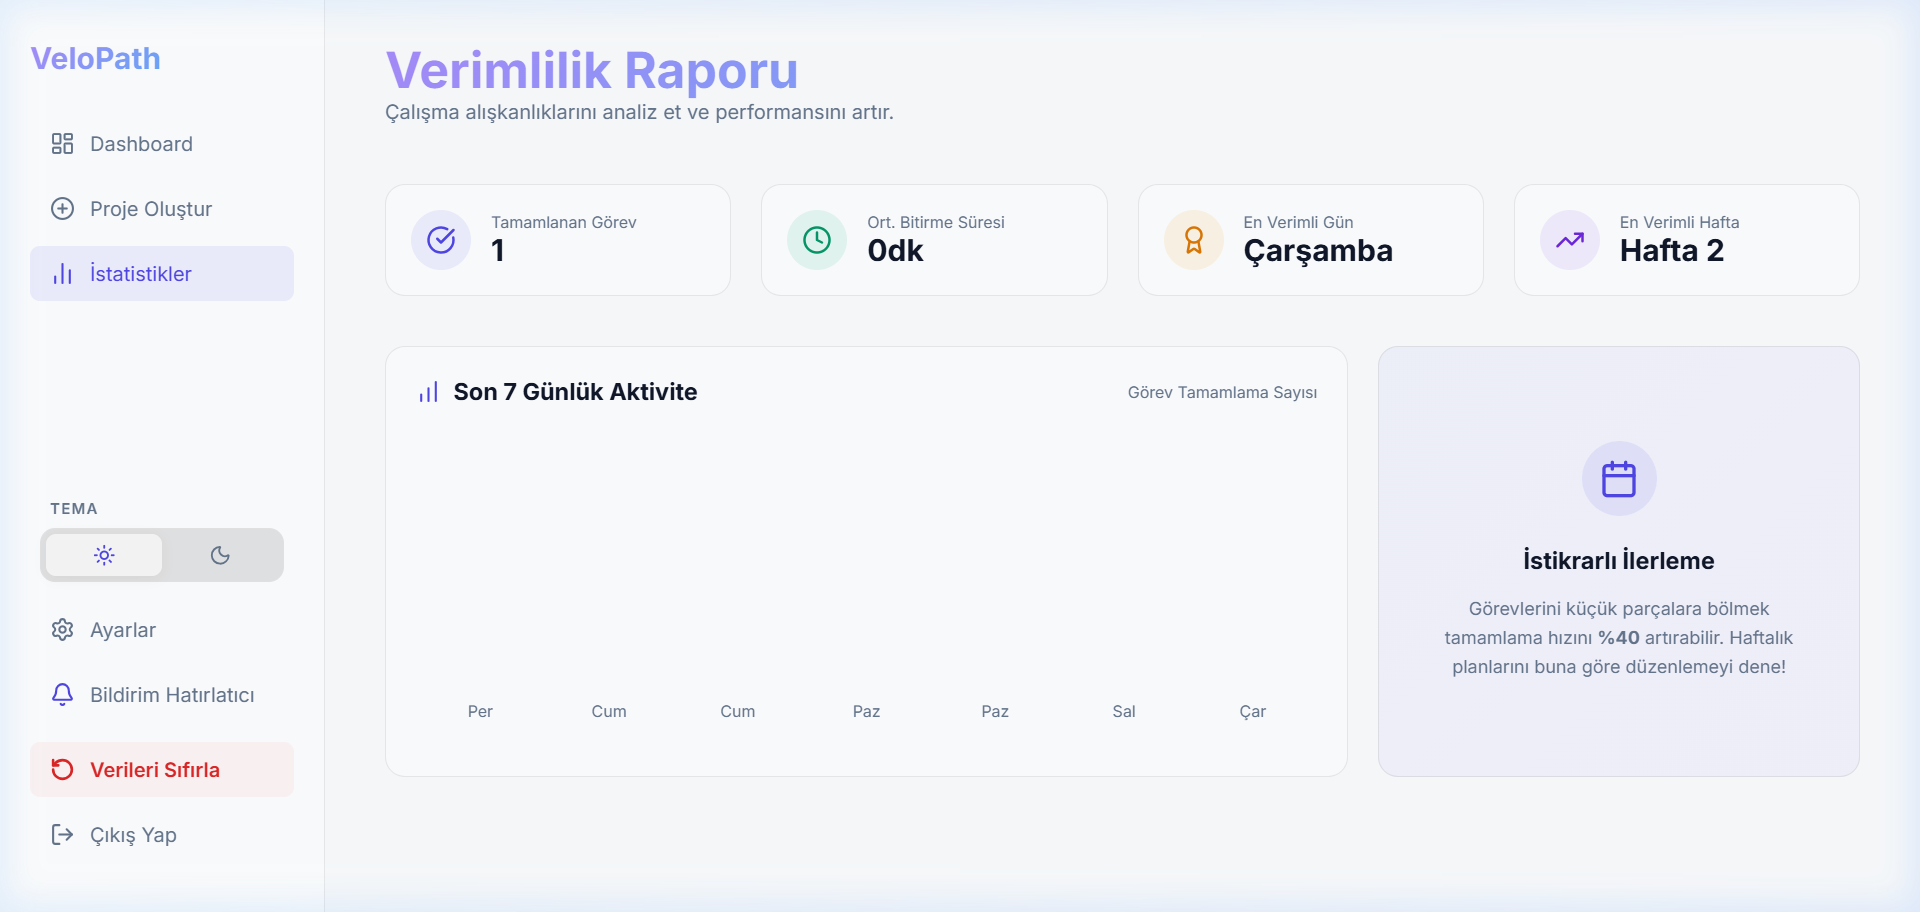
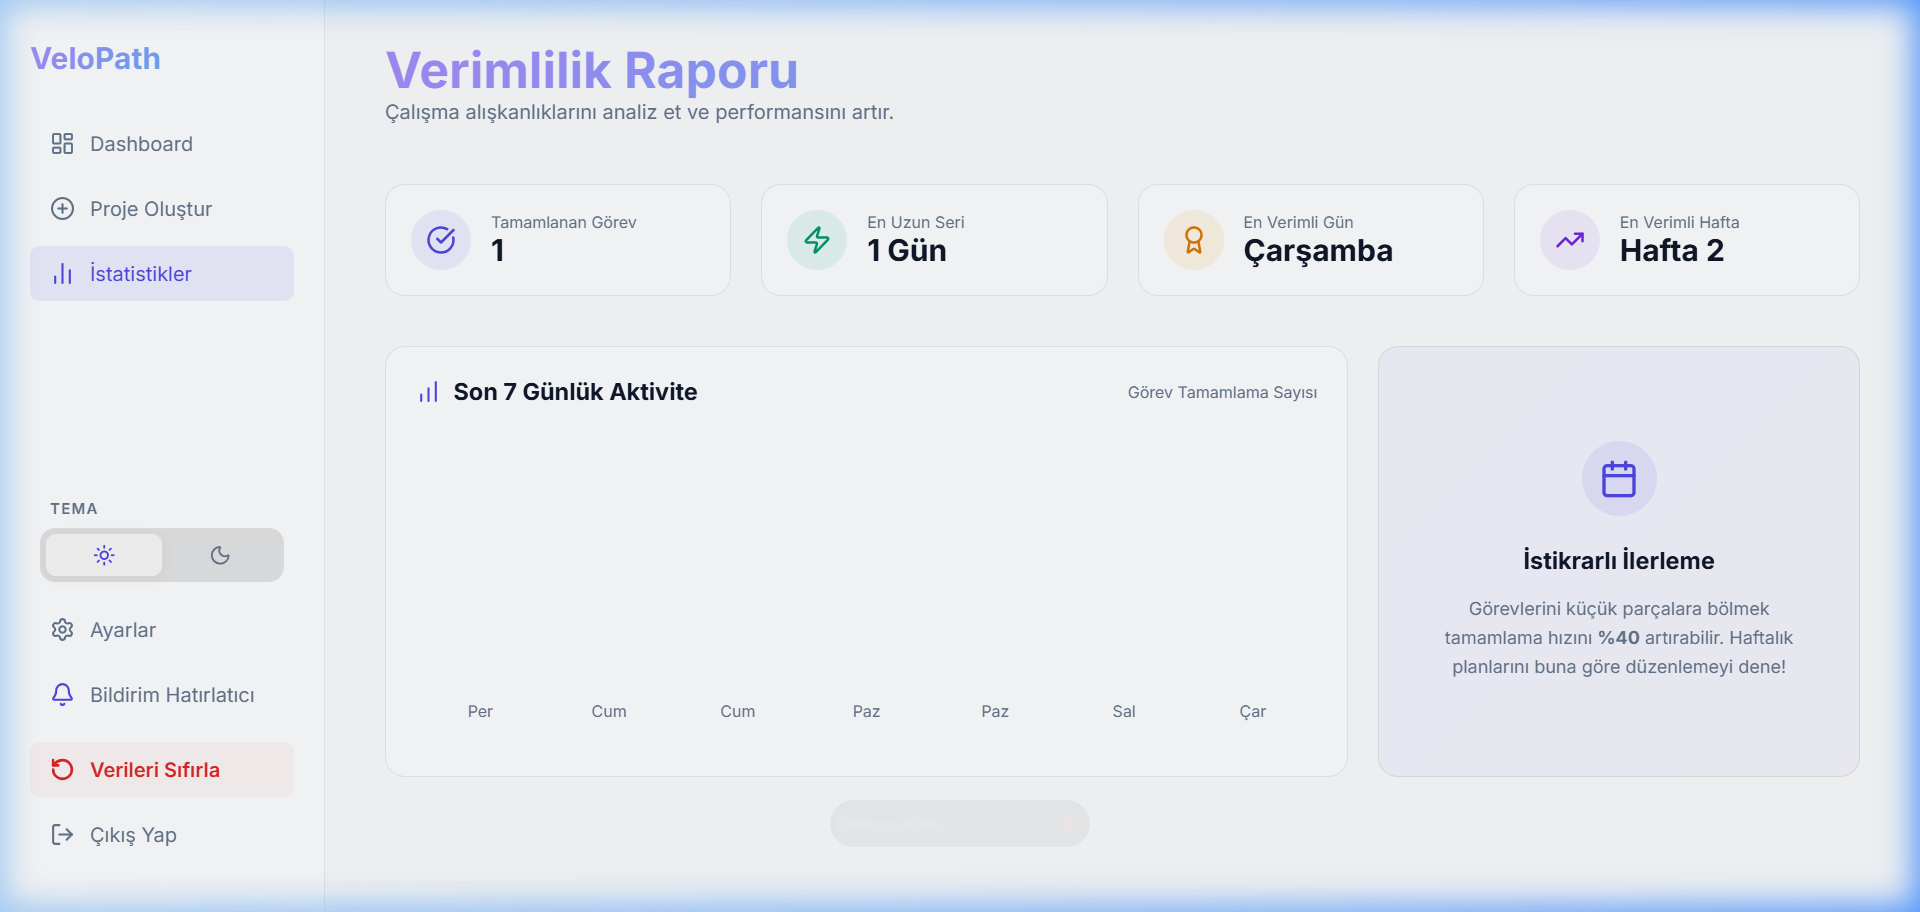
feat: zaman odaklı metrikler kaldırıldı, yerine istatistik sayfasında 'En Uzun Seri' (Daily Streak) metriği eklendi

Changed region(s): [[0.0, 0.0, 1.0, 1.0], [0.4062, 0.2149, 0.5, 0.307]]

diff --git a/web/src/pages/Stats.js b/web/src/pages/Stats.js
@@ -1,6 +1,6 @@
 import React, { useMemo } from 'react';
 import Sidebar from '../components/Sidebar';
-import { BarChart, Clock, Award, CheckCircle, TrendingUp, Calendar } from 'lucide-react';
+import { BarChart, Clock, Award, CheckCircle, TrendingUp, Calendar, Zap } from 'lucide-react';
 
 const Stats = ({ projects, resetData, requestNotificationPermission }) => {
   // Veriyi İşle
@@ -11,31 +11,30 @@ const Stats = ({ projects, resetData, requestNotificationPermission }) => {
     // 1. Toplam Tamamlanan
     const totalCompleted = completedTasks.length;
 
-    // 2. Ortalama Tamamlama Süresi
-    let totalDuration = 0;
-    let validDurations = 0;
-    completedTasks.forEach(t => {
-      const start = new Date(t.createdAt);
-      const end = new Date(t.completedAt);
-      if (!isNaN(start) && !isNaN(end)) {
-        totalDuration += Math.max(0, end - start);
-        validDurations++;
-      }
-    });
-    
-    const avgDurationMs = validDurations > 0 ? totalDuration / validDurations : 0;
-    const avgMinutes = Math.floor(avgDurationMs / (1000 * 60));
-    const avgHours = Math.floor(avgMinutes / 60);
-    const avgDays = Math.floor(avgHours / 24);
-    
-    const displayDays = avgDays;
-    const displayHours = avgHours % 24;
-    const displayMinutes = avgMinutes % 60;
+    // 2. En Uzun Seri (Ardışık Günler)
+    const completionDates = Array.from(new Set(
+      completedTasks.map(t => t.completedAt.split('T')[0])
+    )).sort();
 
-    let timeStr = '0dk';
-    if (displayDays > 0) timeStr = `${displayDays}g ${displayHours}sa`;
-    else if (displayHours > 0) timeStr = `${displayHours}sa ${displayMinutes}dk`;
-    else if (displayMinutes > 0) timeStr = `${displayMinutes}dk`;
+    let longestStreak = 0;
+    let currentStreak = 0;
+    let prevDate = null;
+
+    completionDates.forEach(dateStr => {
+      const currentDate = new Date(dateStr);
+      if (prevDate) {
+        const diffInDays = (currentDate - prevDate) / (1000 * 60 * 60 * 24);
+        if (diffInDays === 1) {
+          currentStreak++;
+        } else {
+          currentStreak = 1;
+        }
+      } else {
+        currentStreak = 1;
+      }
+      longestStreak = Math.max(longestStreak, currentStreak);
+      prevDate = currentDate;
+    });
 
     // 3. En Verimli Gün (Haftanın Günleri)
     const dayNames = ['Pazar', 'Pazartesi', 'Salı', 'Çarşamba', 'Perşembe', 'Cuma', 'Cumartesi'];
@@ -85,7 +84,7 @@ const Stats = ({ projects, resetData, requestNotificationPermission }) => {
 
     return {
       totalCompleted,
-      avgTime: timeStr,
+      streak: longestStreak,
       bestDay: totalCompleted > 0 ? dayNames[bestDayIndex] : '-',
       bestWeek: totalCompleted > 0 ? `Hafta ${bestWeekNum}` : '-',
       last7Days
@@ -118,11 +117,11 @@ const Stats = ({ projects, resetData, requestNotificationPermission }) => {
           </div>
           <div className="stat-card">
             <div className="stat-icon" style={{ background: 'rgba(16, 185, 129, 0.1)', color: 'var(--accent)' }}>
-              <Clock size={24} />
+              <Zap size={24} />
             </div>
             <div>
-              <p style={{ color: 'var(--text-secondary)', fontSize: '0.8rem' }}>Ort. Bitirme Süresi</p>
-              <h3 style={{ color: 'var(--text-primary)', fontSize: '1.5rem' }}>{statsData.avgTime}</h3>
+              <p style={{ color: 'var(--text-secondary)', fontSize: '0.8rem' }}>En Uzun Seri</p>
+              <h3 style={{ color: 'var(--text-primary)', fontSize: '1.5rem' }}>{statsData.streak} Gün</h3>
             </div>
           </div>
           <div className="stat-card">

diff --git a/README.md b/README.md
@@ -13,7 +13,7 @@ VeloPath, en iyi modern kullanıcı deneyimini (UX) sunmak için Linear ve Verce
 - 📜 **Görev Aktivite Geçmişi:** Her görevin ne zaman oluşturulduğu, tamamlandığı veya taşındığına dair detaylı zaman çizelgesi (Timeline) günlüğü.
 - 📝 **Markdown Görev Notları:** Görevlerinize özel, zengin metin düzenleyicisi ile detaylı notlar ekleyin.
 - 🔔 **Bildirim Hatırlatıcı:** Browser Notification API ile "Haftalık Görev Özeti" bildirimleri alın.
-- 📈 **İstatistik ve Verimlilik Paneli:** Tamamlanan görev sayıları, ortalama bitirme süreleri ve en verimli günlerinizin detaylı analizi.
+- 📈 **İstatistik ve Verimlilik Paneli:** Tamamlanan görev sayıları, en uzun çalışma seriniz (Streak) ve en verimli günlerinizin detaylı analizi.
 - 🔗 **Görev Bağımlılıkları:** Görevler arası hiyerarşi ve kilit sistemi (Dependency) ile hata payını sıfırlayın.
 - 📁 **Akıllı Proje Şablonları:** Tek tıkla Web, Mobil veya Full-Stack proje taslağınızı oluşturun.
 - ☀🌙 **Kalıcı Tema Sistemi:** MacOS tarzı modern arayüzle Aydınlık ve Karanlık mod arasında geçiş yapın.
